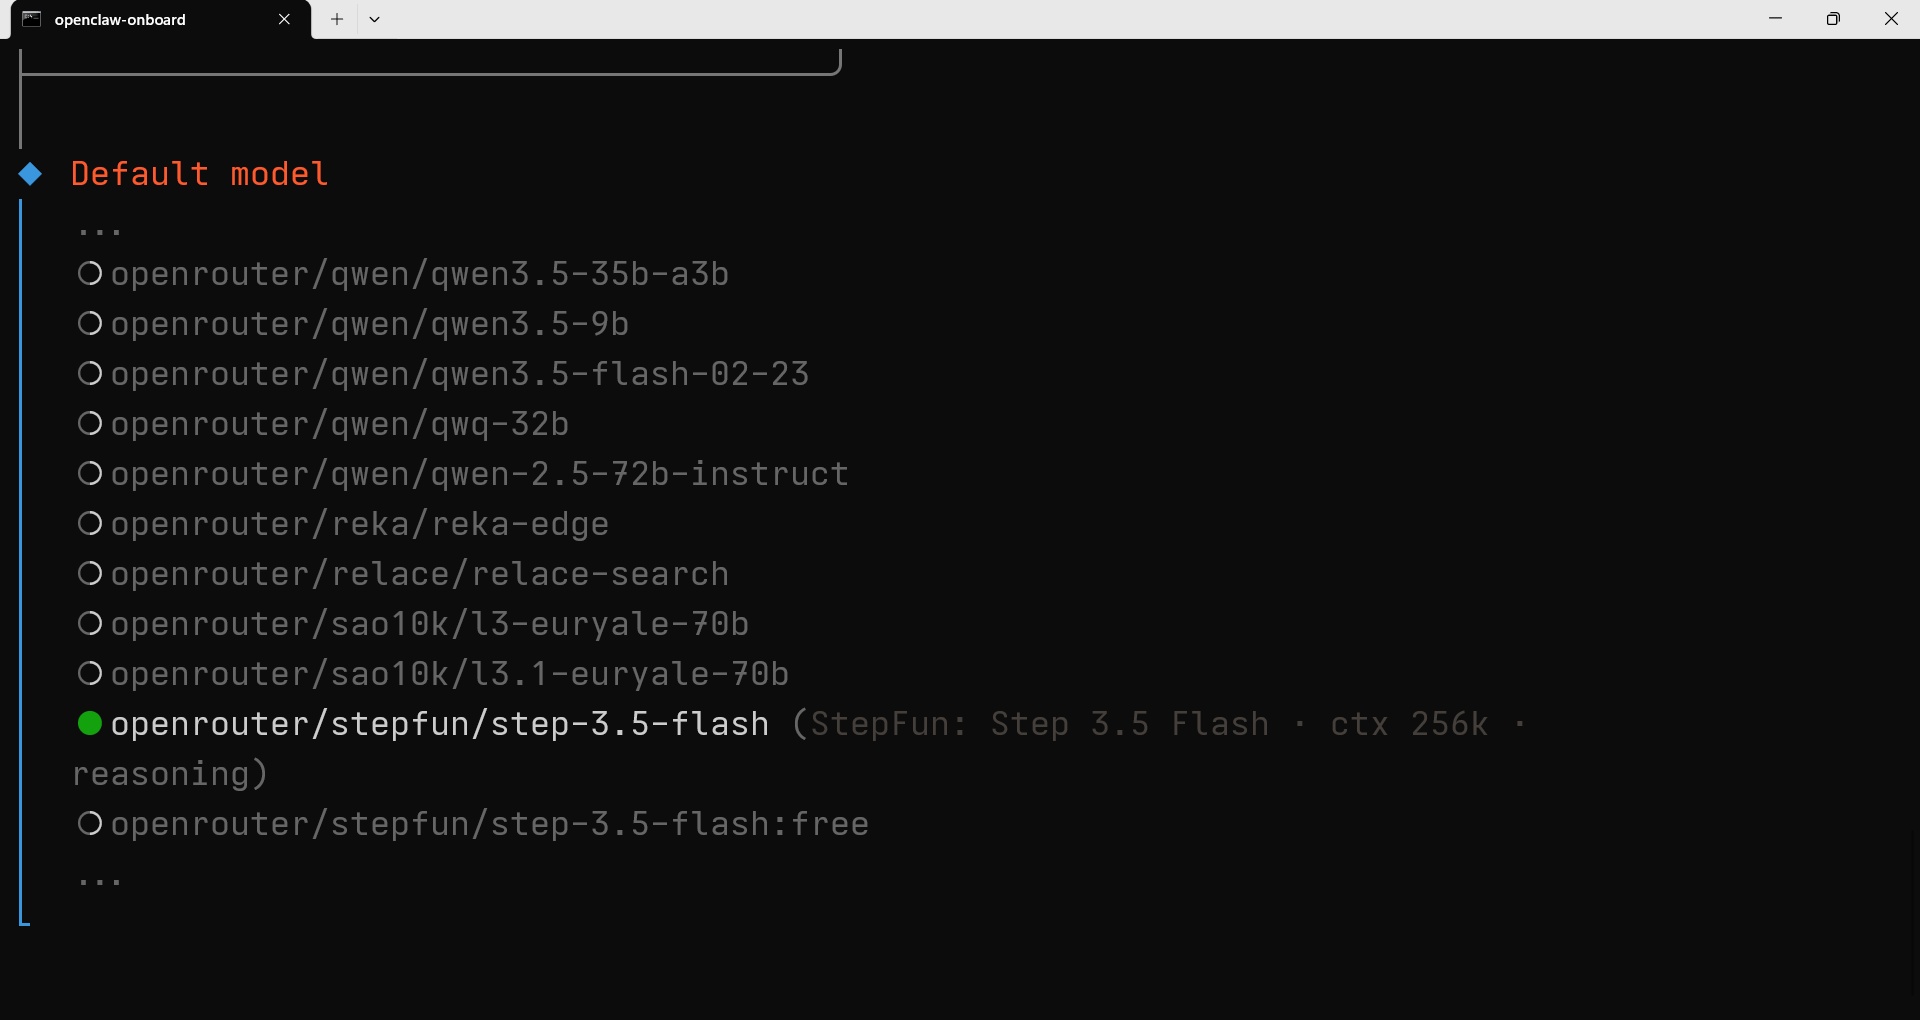
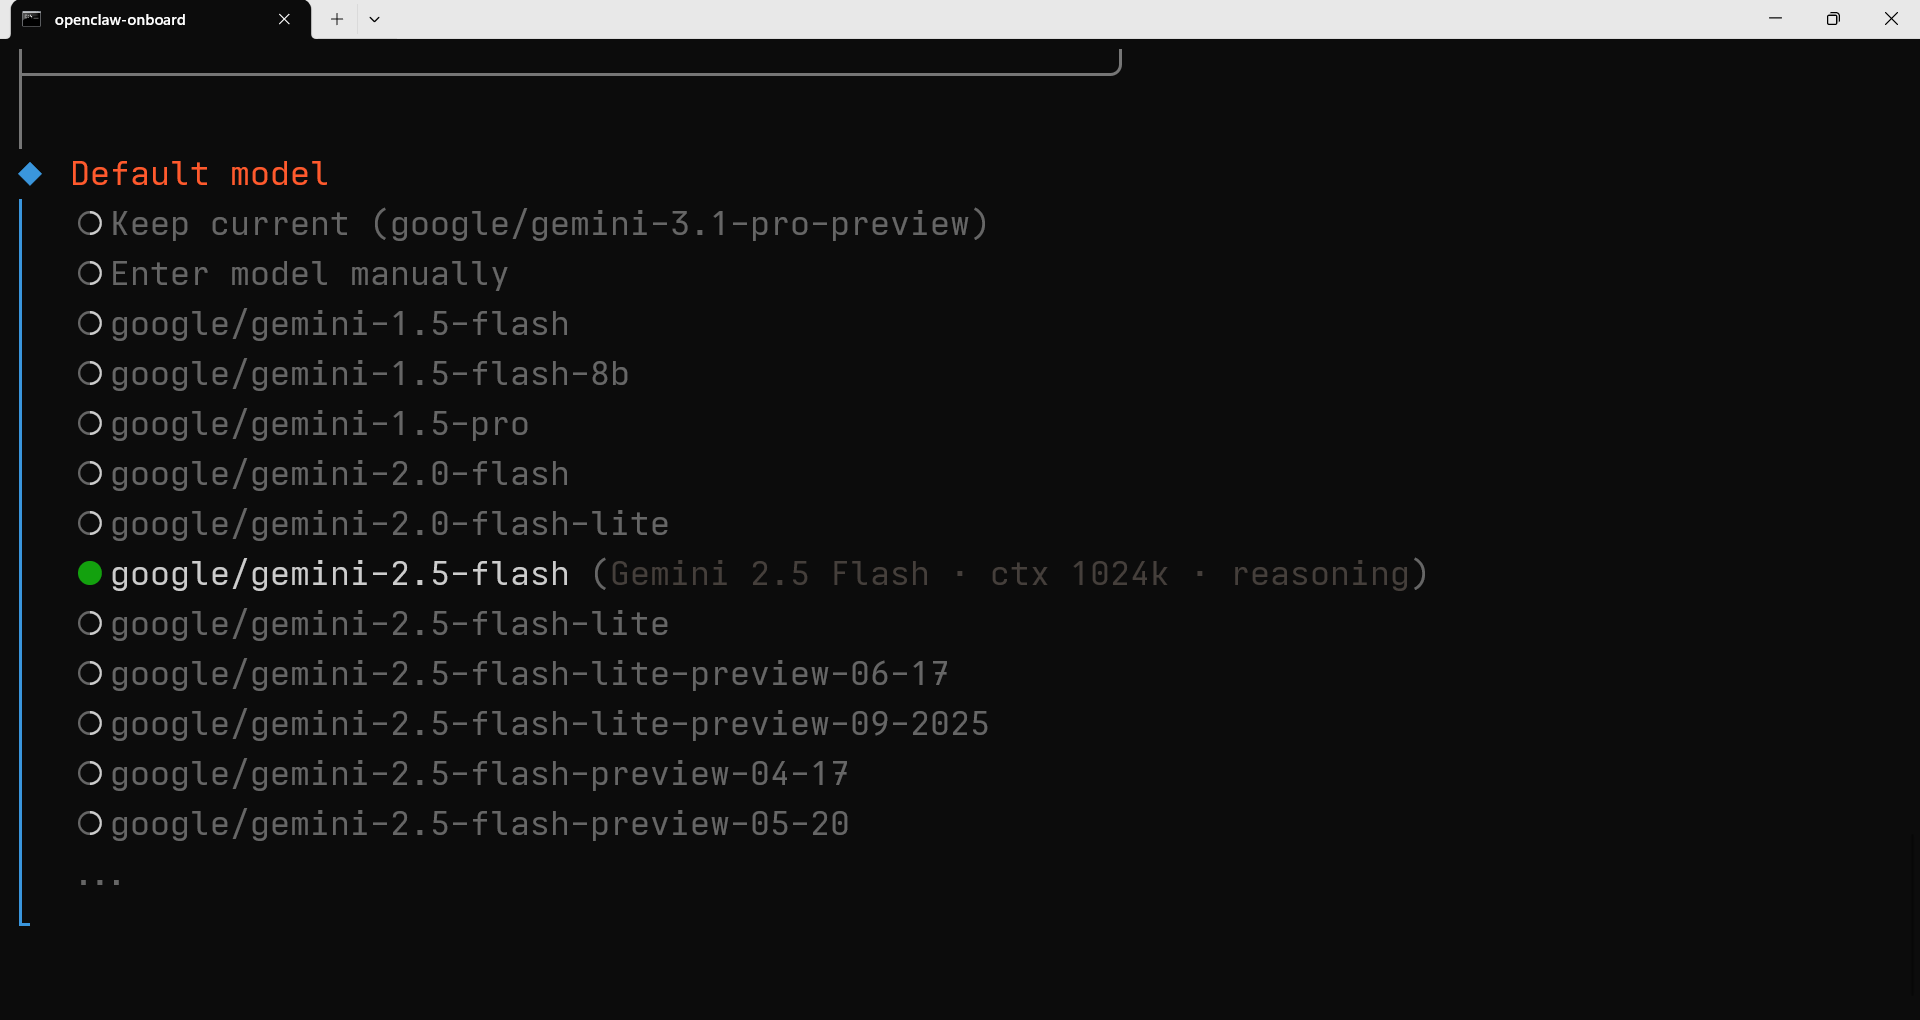
docs: update API key references and model selection in installation guides for macOS and Windows

diff --git a/docs/windows.md b/docs/windows.md
@@ -8,7 +8,7 @@ Winget (Windows Package Manager) thường được tích hợp sẵn trên Wind
 
 1. Mở **Command Prompt**, gõ `winget -v`. Nếu hiện số phiên bản, bạn đã có winget.
 
-    ![image.png](../assets/image.png)
+    ![image.png](../assets/image%200.png)
 
 2. Nếu chưa có, truy cập Microsoft Store, tìm kiếm **"App Installer"** và nhấn "Cập nhật" (Update) hoặc "Cài đặt" (Install).
 
@@ -84,19 +84,19 @@ openclaw onboard --install-daemon
 
 3. **Model/auth provider**
 
-    Chọn `OpenRouter`
+    Chọn `Google`
 
     ![image.png](../assets/image%208.png)
 
-4. **Enter OpenRouter API key**
+4. **Enter Gemini API key**
 
-    Nhập `sk-or-v1-xxxxxxxxxx`
+    Nhập API key của bạn (lấy từ [Google AI Studio](https://aistudio.google.com/api-keys))
 
     ![image.png](../assets/image%209.png)
 
 5. **Default model**
 
-    Chọn `openrouter/stepfun/step-3.5-flash`
+    Chọn `google/gemini-2.5-flash`
 
     ![image.png](../assets/image%2010.png)
 

diff --git a/docs/windows-en.md b/docs/windows-en.md
@@ -8,7 +8,7 @@ Winget (Windows Package Manager) is usually pre-installed on Windows 11 and rece
 
 1. Open **Command Prompt**, type `winget -v`. If a version number is shown, you already have winget.
 
-    ![image.png](../assets/image.png)
+    ![image.png](../assets/image%200.png)
 
 2. If you don't have it, open the Microsoft Store, search for **"App Installer"**, and click "Update" or "Install".
 
@@ -83,19 +83,19 @@ openclaw onboard --install-daemon
 
 3. **Model/auth provider**
 
-    Select `OpenRouter`
+    Select `Google`
 
     ![image.png](../assets/image%208.png)
 
-4. **Enter OpenRouter API key**
+4. **Enter Gemini API key**
 
-    Enter your API key (e.g. `sk-or-v1-xxxxxxxxxx`)
+    Enter your API key (get one from [Google AI Studio](https://aistudio.google.com/api-keys))
 
     ![image.png](../assets/image%209.png)
 
 5. **Default model**
 
-    Select `openrouter/stepfun/step-3.5-flash`
+    Select `google/gemini-2.5-flash`
 
     ![image.png](../assets/image%2010.png)
 

diff --git a/docs/macos.md b/docs/macos.md
@@ -105,19 +105,19 @@ openclaw onboard --install-daemon
 
 3. **Model/auth provider**
 
-    Chọn `OpenRouter`
+    Chọn `Google`
 
     ![image.png](../assets/image%208.png)
 
-4. **Enter OpenRouter API key**
+4. **Enter Gemini API key**
 
-    Nhập API key của bạn (lấy từ [OpenRouter](https://openrouter.ai/keys))
+    Nhập API key của bạn (lấy từ [Google AI Studio](https://aistudio.google.com/api-keys))
 
     ![image.png](../assets/image%209.png)
 
 5. **Default model**
 
-    Chọn `openrouter/stepfun/step-3.5-flash`
+    Chọn `google/gemini-2.5-flash`
 
     ![image.png](../assets/image%2010.png)
 

diff --git a/docs/macos-en.md b/docs/macos-en.md
@@ -100,19 +100,19 @@ openclaw onboard --install-daemon
 
 3. **Model/auth provider**
 
-    Select `OpenRouter`
+    Select `Google`
 
     ![image.png](../assets/image%208.png)
 
-4. **Enter OpenRouter API key**
+4. **Enter Gemini API key**
 
-    Enter your API key (get one from [OpenRouter](https://openrouter.ai/keys))
+    Enter your API key (get one from [Google AI Studio](https://aistudio.google.com/api-keys))
 
     ![image.png](../assets/image%209.png)
 
 5. **Default model**
 
-    Select `openrouter/stepfun/step-3.5-flash`
+    Select `google/gemini-2.5-flash`
 
     ![image.png](../assets/image%2010.png)
 
